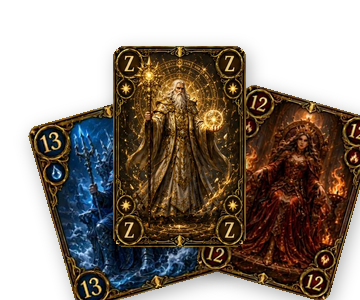
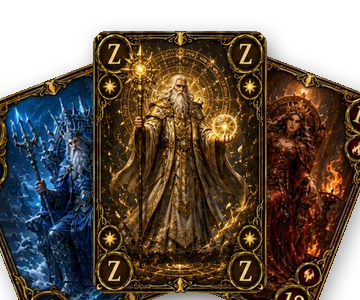
Elemente-Deck-Kachel: groesserer, breiterer Faecher wie Standard
Die 3 Karten fuellen die Kachel jetzt grosszuegig aus (groesser,
staerker gekippt ~21°, breiter gespreizt, an die Raender ragend) –
optisch konsistent mit deck-standard.png statt zu klein/zentriert.
cat-img Cache-Buster ?v=1 -> ?v=2 (neue Kachel sicher laden). app v119.

Claude-Session: https://claude.ai/code/session_01MGnrpYm1rjF2AQZegA46XA

diff --git a/app.js b/app.js
@@ -763,7 +763,7 @@ function shopCatalogTile(it, owned) {
     state = `<span class="tile-state owned">✓ Im Besitz</span>`;
   }
 
-  const thumb = `<img class="cat-img" src="${esc(it.img)}?v=1" alt="" loading="lazy">`;
+  const thumb = `<img class="cat-img" src="${esc(it.img)}?v=2" alt="" loading="lazy">`;
   return `<div class="cat-tile${active ? ' is-active' : ''}" data-kind="${esc(it.kind)}" data-rar="${esc(it.rarity)}" style="--r:${r.color}">
     <div class="cat-thumb">${thumb}</div>
     <div class="cat-name">${esc(it.name)}</div>

diff --git a/index.html b/index.html
@@ -2001,6 +2001,6 @@
   window.addEventListener('pagehide', () => { dropFocus(); armInputs(); });
   window.addEventListener('pageshow', () => { dropFocus(); window.scrollTo(0, 0); });
 </script>
-<script type="module" src="./app.js?v=118"></script>
+<script type="module" src="./app.js?v=119"></script>
 </body>
 </html>
